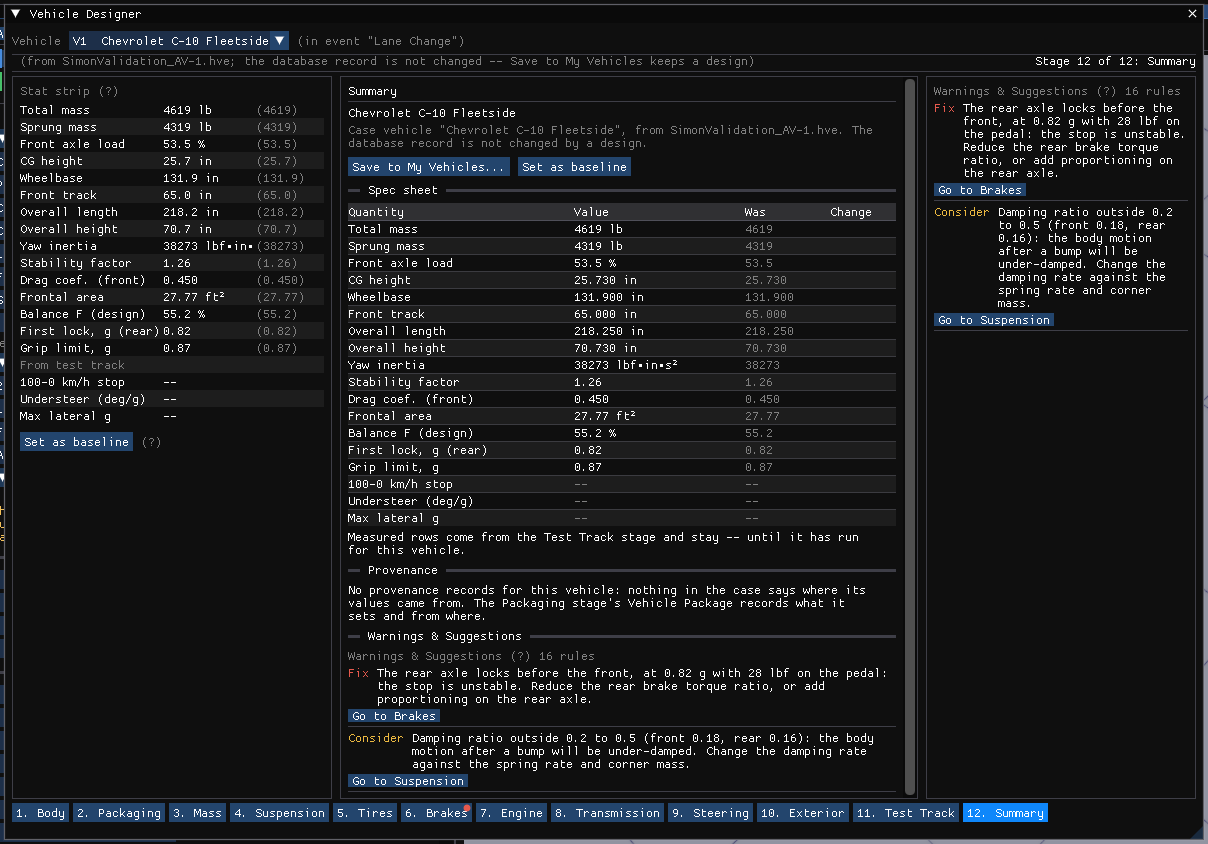
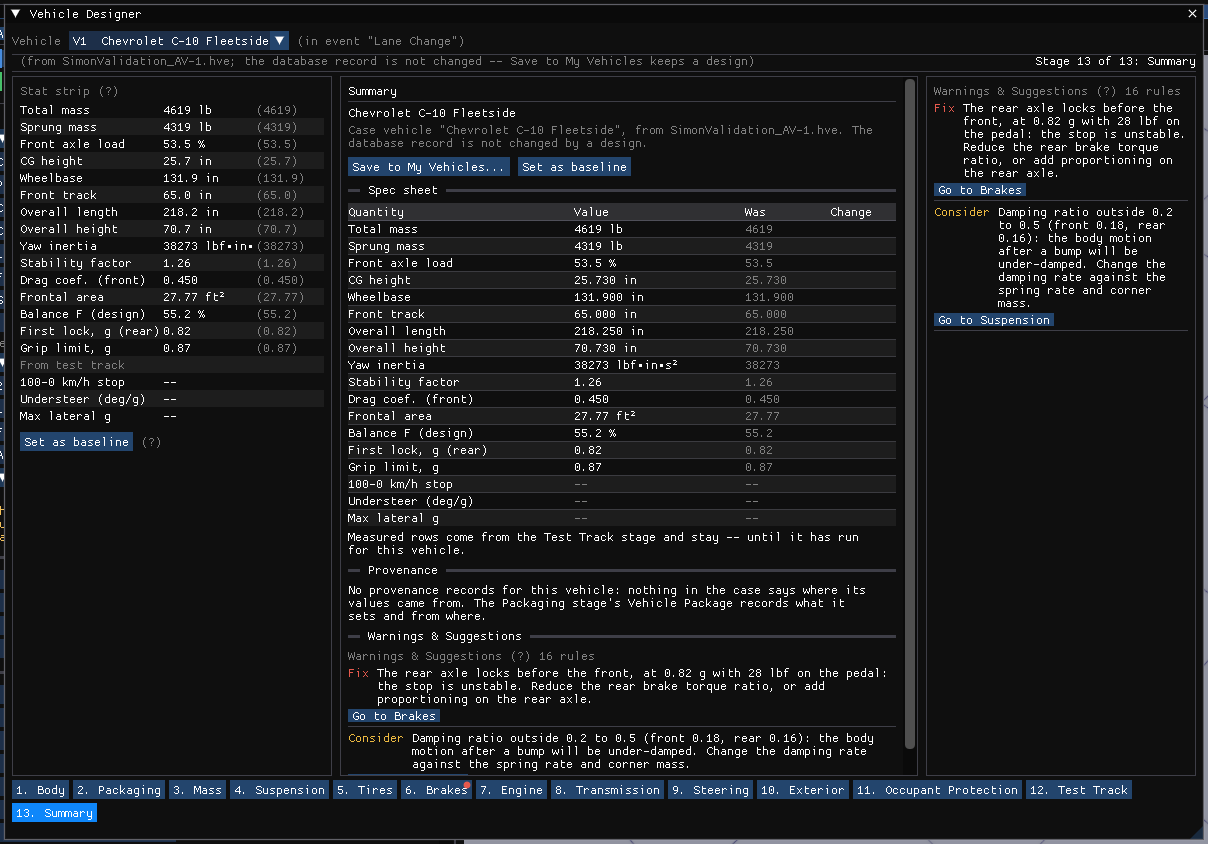
HVE 2027 manuals: sync from hve-next 67589bd4
Vehicle Designer: the Occupant Protection stage (M7); thirteen stages; figures 12-14 to 12-16.

Claude-Session: https://claude.ai/code/session_01ExFGmXKkveRikV1Nmb9fu5

Changed region(s): [[0.0, 0.8934, 0.9495, 0.9858]]

diff --git a/hve2027/docs/manuals/hve-users/04-vehicle-editor/12-vehicle-designer.md b/hve2027/docs/manuals/hve-users/04-vehicle-editor/12-vehicle-designer.md
@@ -8,7 +8,7 @@
     changed, and keeping a design means **Save to My Vehicles** (Chapter 10).
 
 **Vehicle › Vehicle Designer...** opens the **Vehicle Designer** window. It has one
-frame and twelve stages. The frame is the same on every stage: a **stat strip**
+frame and thirteen stages. The frame is the same on every stage: a **stat strip**
 on the left, the stage's own controls and views in the center, a **Warnings &
 Suggestions** panel on the right, and a stage bar along the bottom with every
 stage reachable. The first line names the case vehicle and where it came from,
@@ -24,7 +24,7 @@ and which stage is open.
 
 ## The stages
 
-The stage bar lists the twelve stages in the order a design is usually worked,
+The stage bar lists the thirteen stages in the order a design is usually worked,
 numbered so the order is visible; any stage can be clicked at any time:
 
 1. **Body** — the parametric body and its dimensions (the rest of this chapter).
@@ -37,8 +37,9 @@ numbered so the order is visible; any stage can be clicked at any time:
 8. **Transmission** — gear ratios, final drive, shift logic, drive type, differential.
 9. **Steering** — steer ratio, column and geometry per axle.
 10. **Exterior** — the mesh, the lamps, aerodynamic drag, accelerometers, crush stiffness and body torsion.
-11. **Test Track** — three canned SIMON runs on the current physics, read back as numbers (stage 11 below).
-12. **Summary** (stage 12 below) — the spec sheet, the whole warnings list and the provenance tally.
+11. **Occupant Protection** — the contact surfaces, airbags and belts an occupant meets, per seat.
+12. **Test Track** — three canned SIMON runs on the current physics, read back as numbers (stage 12 below).
+13. **Summary** (stage 13 below) — the spec sheet, the whole warnings list and the provenance tally.
 
 In this release stages 1, 4, 5, 6 and 9 are built. Each other stage names the dialogs that hold
 its inputs and opens them with a button (**Suspension Data...**, **Tires...**,
@@ -318,7 +319,21 @@ other three are display and instrumentation.
 
 ![Figure 12-11: the Exterior stage with its four editors as tabs](../images/hvn-04-vehicle-designer-exterior.png)
 
-### Stage 11: Test Track
+### Stage 11: Occupant Protection
+
+The Occupant Protection stage hosts the three editors of what an occupant
+meets in this vehicle, one tab each: **Contact Surfaces** (the panels an
+occupant can strike, with their materials), **Airbags** and **Belt Restraint**.
+They are the same editors as the windows under **Vehicle**, not copies: a field
+has one editor. The belts and airbags are per seat, so these two open on the
+human the Occupants panel has selected, with the editors' own occupant picker
+to change seat. While the stage is open the 3-D view draws the surfaces, bags
+and belts, as it does when their windows are open. Each tab's **Open in its own
+window** opens that editor's window.
+
+![Figure 12-16: the Occupant Protection stage](../images/hvn-04-vehicle-designer-occupants.png)
+
+### Stage 12: Test Track
 
 The Test Track runs the vehicle, alone, on a flat surface, in three canned
 SIMON events, and reads the numbers back. **Run test track** solves them one
@@ -348,7 +363,7 @@ solver refuses shows the solver's own reason.
 
 ![Figure 12-14: the Test Track stage before its runs](../images/hvn-04-vehicle-designer-track.png)
 
-### Stage 12: Summary
+### Stage 13: Summary
 
 The Summary is the design on one page. It opens with the vehicle's identity (the
 Vehicle Package's year, make, model and trim, and its VIN when kept; otherwise
